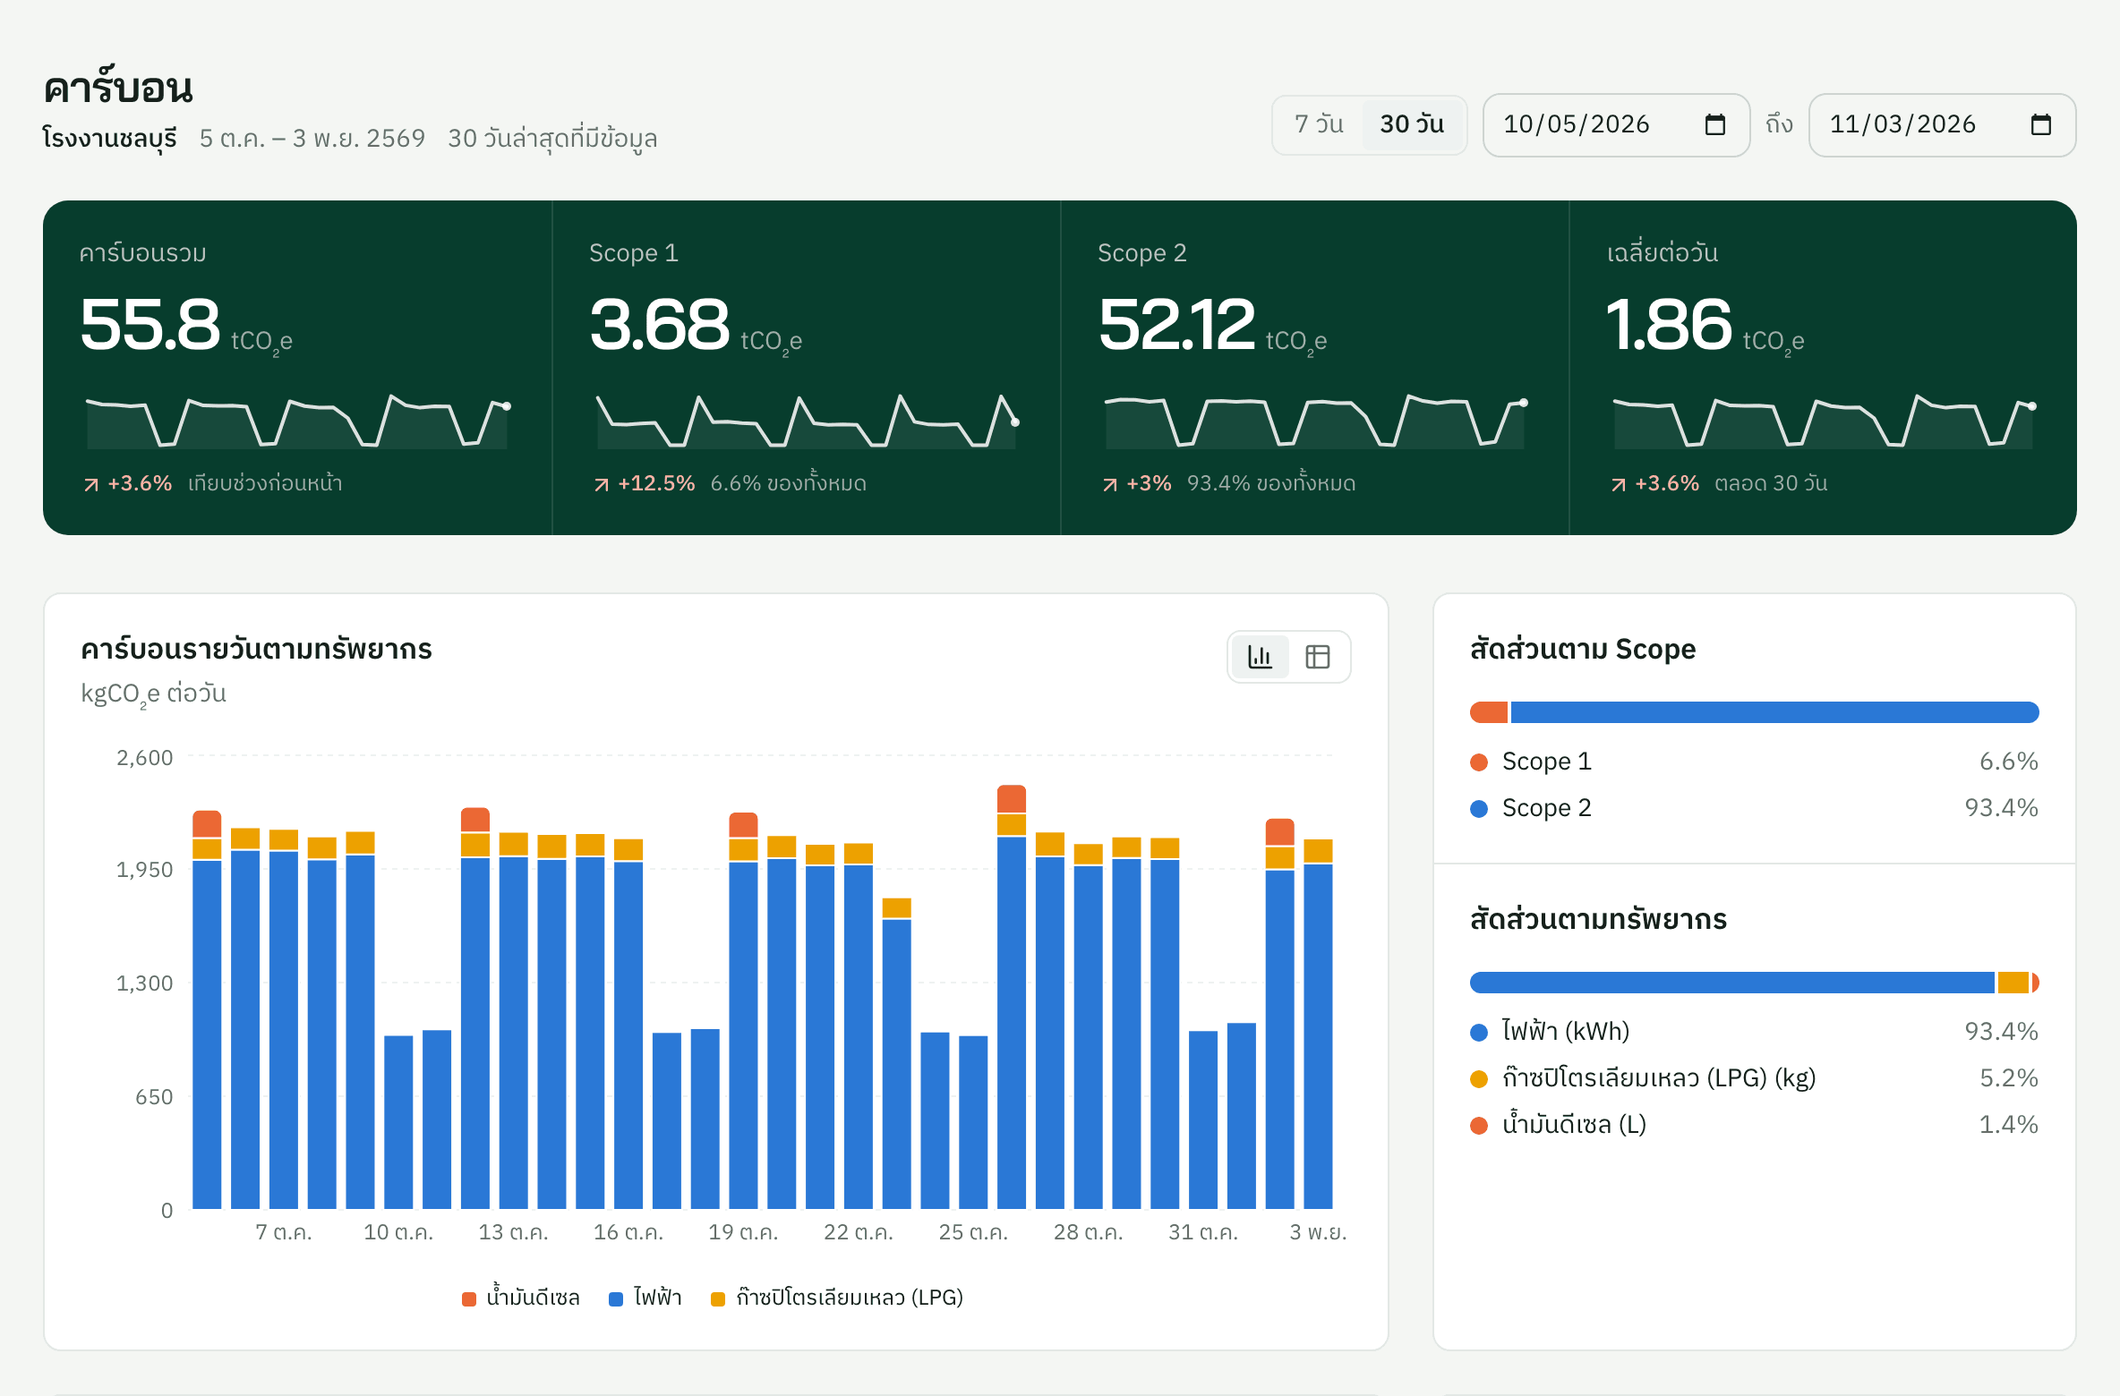
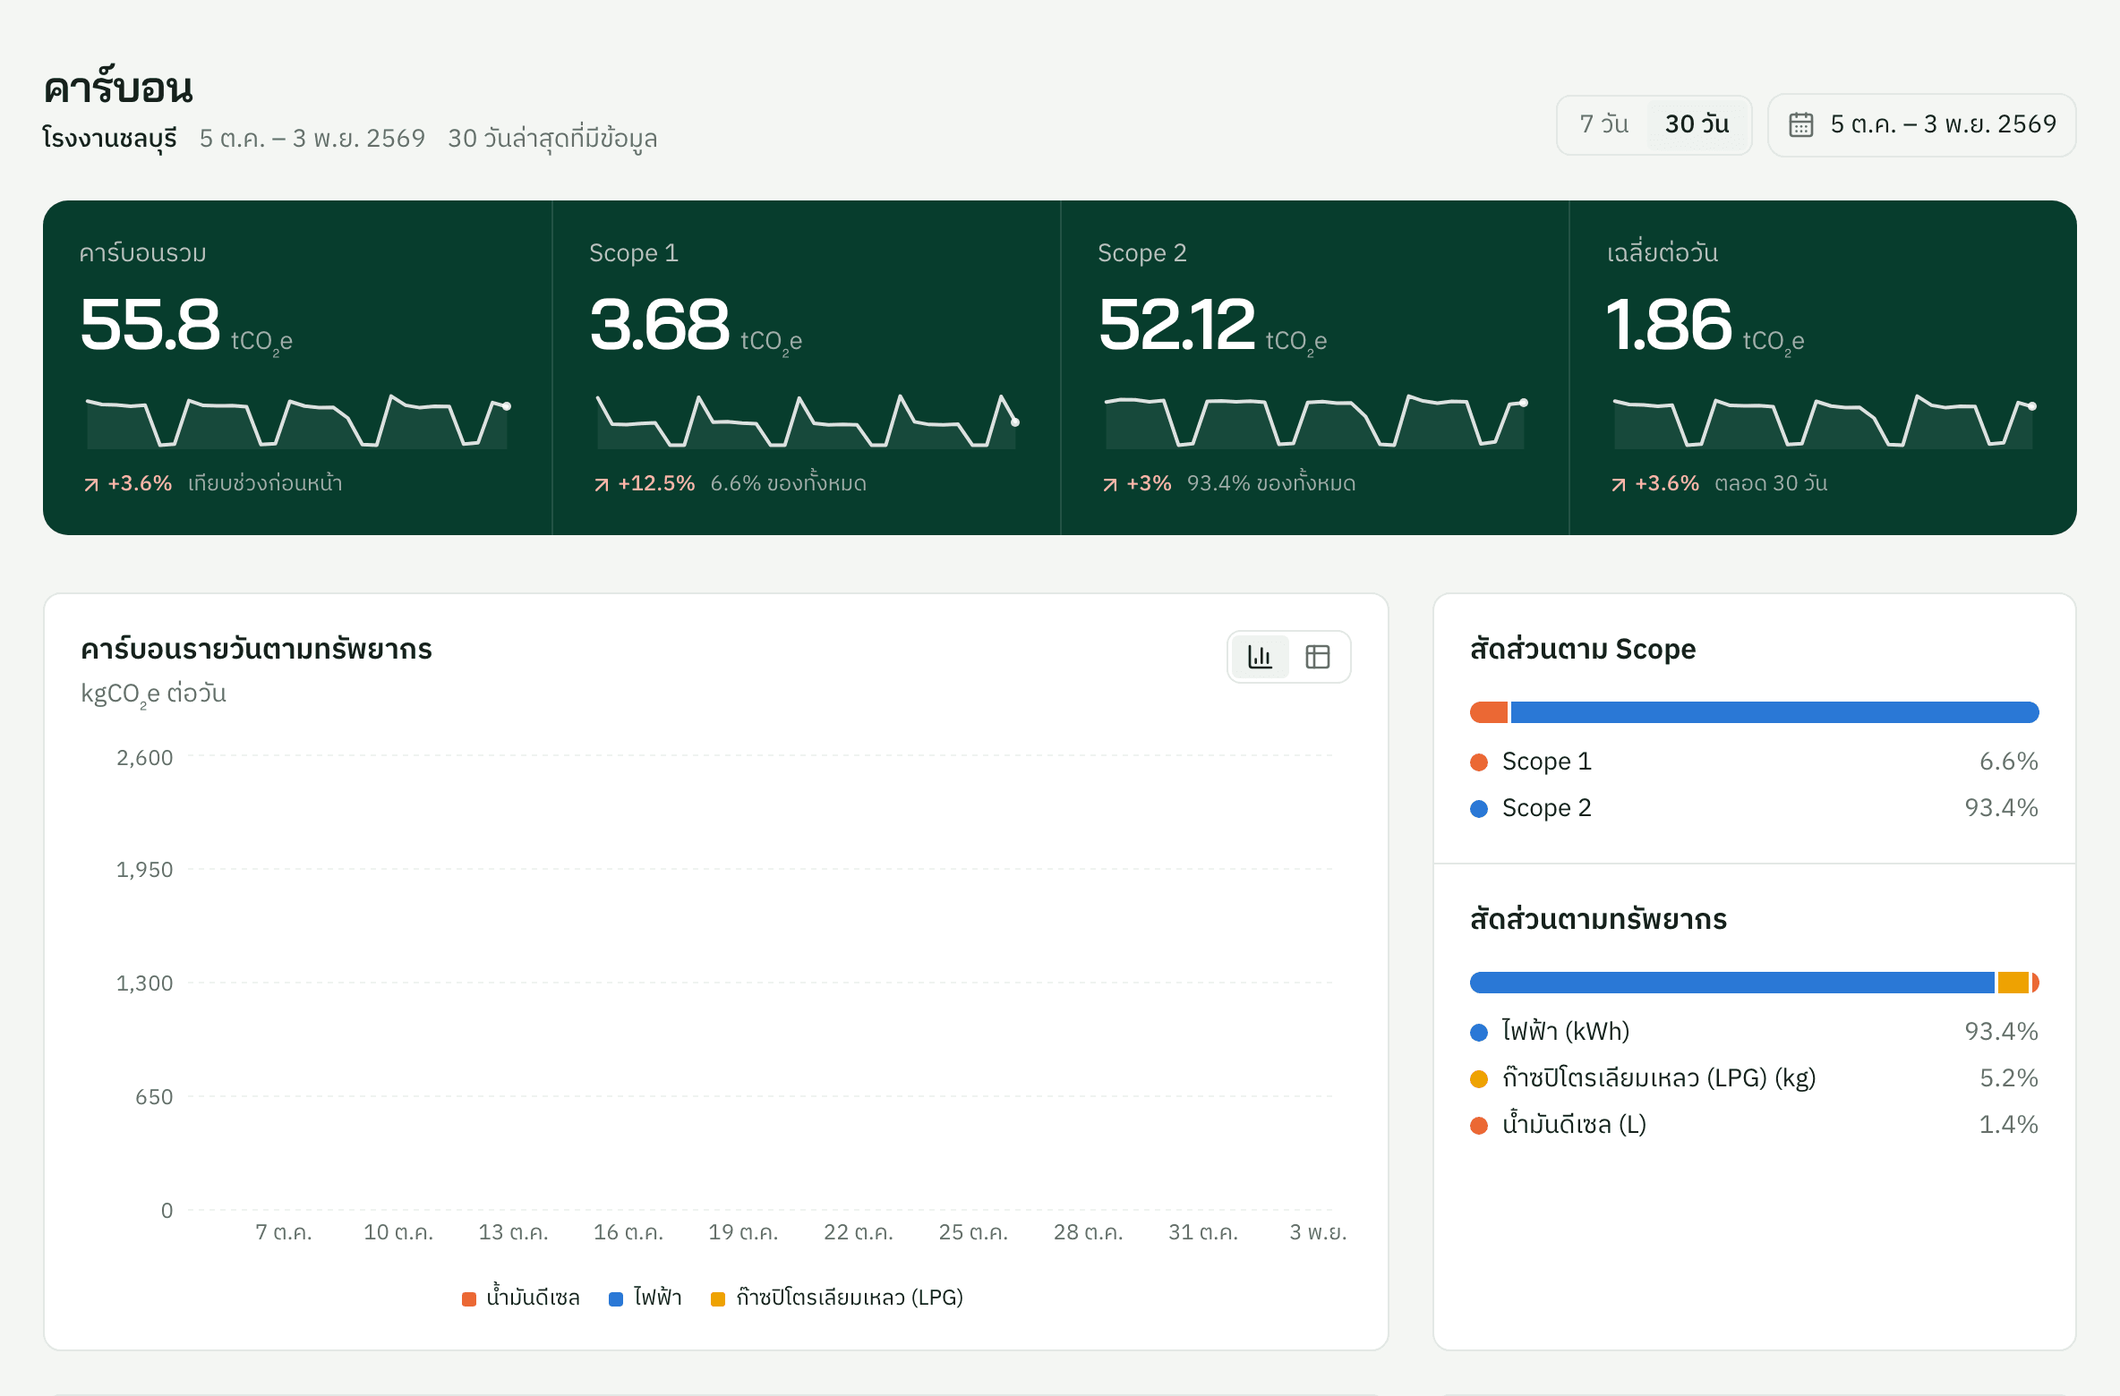
Thai date picker, tidy carbon table and landing heatmap
Native date inputs showed US-format Gregorian dates while the rest of the
app uses Thai Buddhist-era dates. A shared DateField/DateRangeField (Popover
+ Calendar, th locale) replaces them on dashboards, filters and reports.
Also: carbon method table fits its panel, top emitters use the primary
colour, the landing heatmap no longer bleeds off-screen, the curl sample
wraps, form fields align next to Radix selects, and product shots are
recaptured.

diff --git a/src/components/ui/date-field.tsx b/src/components/ui/date-field.tsx
@@ -1,0 +1,81 @@
+"use client";
+
+import { useState } from "react";
+import { CalendarDays } from "lucide-react";
+import { th } from "react-day-picker/locale";
+import type { DateRange } from "react-day-picker";
+import { Button } from "@/components/ui/button";
+import { Calendar } from "@/components/ui/calendar";
+import { Popover, PopoverContent, PopoverTrigger } from "@/components/ui/popover";
+import { cn } from "@/lib/utils";
+
+// Values stay "YYYY-MM-DD" strings (Bangkok business days); the calendar works on local midnight dates.
+const toDate = (day: string) => new Date(`${day}T00:00:00`);
+const toDay = (d: Date) =>
+  `${d.getFullYear()}-${String(d.getMonth() + 1).padStart(2, "0")}-${String(d.getDate()).padStart(2, "0")}`;
+const label = (day: string, year = true) =>
+  toDate(day).toLocaleDateString("th-TH", { day: "numeric", month: "short", ...(year && { year: "numeric" }) });
+
+// Thai month names with Buddhist-era years, matching every other date in the app.
+const formatters = {
+  formatCaption: (d: Date) => d.toLocaleDateString("th-TH", { month: "long", year: "numeric" }),
+};
+
+const disabledOutside = (min?: string, max?: string) => [
+  ...(min ? [{ before: toDate(min) }] : []),
+  ...(max ? [{ after: toDate(max) }] : []),
+];
+
+export function DateField({ id, value, onChange, min, max, className, "aria-label": ariaLabel }: {
+  id?: string; value: string; onChange: (day: string) => void; min?: string; max?: string; className?: string; "aria-label"?: string;
+}) {
+  const [open, setOpen] = useState(false);
+  return (
+    <Popover open={open} onOpenChange={setOpen}>
+      <PopoverTrigger asChild>
+        <Button id={id} type="button" variant="outline" aria-label={ariaLabel} className={cn("h-9 justify-start gap-2 border-input bg-transparent font-normal tabular-nums", !value && "text-muted-foreground", className)}>
+          <CalendarDays className="text-muted-foreground" aria-hidden />
+          {value ? label(value) : "เลือกวันที่"}
+        </Button>
+      </PopoverTrigger>
+      <PopoverContent className="w-auto p-0" align="start">
+        <Calendar mode="single" locale={th} formatters={formatters} selected={value ? toDate(value) : undefined}
+          defaultMonth={value ? toDate(value) : undefined} disabled={disabledOutside(min, max)}
+          onSelect={(d) => { if (d) { onChange(toDay(d)); setOpen(false); } }} />
+      </PopoverContent>
+    </Popover>
+  );
+}
+
+/** One button for a from–to range; commits only when both ends are picked. */
+export function DateRangeField({ from, to, onChange, max, className }: {
+  from: string; to: string; onChange: (from: string, to: string) => void; max?: string; className?: string;
+}) {
+  const [open, setOpen] = useState(false);
+  const [draft, setDraft] = useState<DateRange | undefined>();
+  const sameYear = from.slice(0, 4) === to.slice(0, 4);
+  return (
+    <Popover open={open} onOpenChange={(o) => { setOpen(o); setDraft(undefined); }}>
+      <PopoverTrigger asChild>
+        <Button type="button" variant="outline" aria-label="เลือกช่วงวันที่" className={cn("h-9 justify-start gap-2 font-normal tabular-nums", className)}>
+          <CalendarDays className="text-muted-foreground" aria-hidden />
+          {label(from, !sameYear)} – {label(to)}
+        </Button>
+      </PopoverTrigger>
+      <PopoverContent className="w-auto p-0" align="end">
+        <Calendar mode="range" locale={th} formatters={formatters} numberOfMonths={2}
+          defaultMonth={toDate(from)} selected={draft ?? { from: toDate(from), to: toDate(to) }}
+          disabled={disabledOutside(undefined, max)}
+          onSelect={(r, picked) => {
+            // Start a fresh range on the first click instead of extending the current one.
+            const next = draft ? r : { from: picked, to: undefined };
+            if (next?.from && next.to) { onChange(toDay(next.from), toDay(next.to)); setOpen(false); setDraft(undefined); }
+            else setDraft(next);
+          }} />
+        <p className="border-t px-3 py-2 text-xs text-muted-foreground">
+          {draft?.from ? `เริ่ม ${label(toDay(draft.from))} เลือกวันสิ้นสุด` : "เลือกวันเริ่มต้น แล้วเลือกวันสิ้นสุด"}
+        </p>
+      </PopoverContent>
+    </Popover>
+  );
+}

diff --git a/src/app/manager/carbon/page.tsx b/src/app/manager/carbon/page.tsx
@@ -78,7 +78,7 @@ export default async function Page({ searchParams }: PageProps<"/manager/carbon"
               <TableHeader>
                 <TableRow>
                   <TableHead>ทรัพยากร</TableHead><TableHead className="text-right">ปริมาณที่ใช้</TableHead><TableHead className="text-right">Factor</TableHead>
-                  <TableHead className="text-right">คาร์บอน</TableHead><TableHead>Scope</TableHead><TableHead>แหล่งที่มาของ Factor</TableHead>
+                  <TableHead className="text-right">คาร์บอน</TableHead><TableHead>แหล่งที่มาของ Factor</TableHead>
                 </TableRow>
               </TableHeader>
               <TableBody>
@@ -89,9 +89,8 @@ export default async function Page({ searchParams }: PageProps<"/manager/carbon"
                       <TableCell><span className="flex items-center gap-2 whitespace-nowrap"><Icon className="size-4" style={{ color: resourceColor(r.resourceCode) }} aria-hidden />{r.resourceName}</span><span className="text-xs text-muted-foreground">{fmtNum(r.count)} รายการ</span></TableCell>
                       <TableCell className="text-right whitespace-nowrap tabular">{fmtNum(r.activity)} <span className="text-muted-foreground">{r.unit}</span></TableCell>
                       <TableCell className="text-right whitespace-nowrap tabular">{r.factor === null ? "หลายค่า" : fmtNum(r.factor, 4)}<p className="text-xs text-muted-foreground">{r.factorUnit}</p></TableCell>
-                      <TableCell className="text-right whitespace-nowrap font-medium tabular">{c(r.kg)}</TableCell>
-                      <TableCell className="whitespace-nowrap">{r.scope}</TableCell>
-                      <TableCell className="min-w-48 text-sm whitespace-normal text-muted-foreground">{r.source}</TableCell>
+                      <TableCell className="text-right whitespace-nowrap tabular"><span className="font-medium">{c(r.kg)}</span><p className="text-xs text-muted-foreground">{r.scope}</p></TableCell>
+                      <TableCell className="min-w-44 text-xs leading-relaxed whitespace-normal text-muted-foreground">{r.source}</TableCell>
                     </TableRow>
                   );
                 })}
@@ -100,7 +99,7 @@ export default async function Page({ searchParams }: PageProps<"/manager/carbon"
           </div>
         </Panel>
         <Panel title="จุดปล่อยสูงสุด" description="ตามเครื่องจักรและจุดตรวจ">
-          <BarList items={d.hotspots.slice(0, 6).map((h) => ({ label: h.name, value: h.kg, color: "var(--chart-6)" }))} unit="kgCO₂e" />
+          <BarList items={d.hotspots.slice(0, 6).map((h) => ({ label: h.name, value: h.kg, color: "var(--primary)" }))} unit="kgCO₂e" />
         </Panel>
       </div>
 

diff --git a/src/app/(public)/page.tsx b/src/app/(public)/page.tsx
@@ -109,14 +109,14 @@ export default function HomePage() {
       </Section>
 
       <section aria-labelledby="heatmap-title" className="overflow-hidden border-y bg-card py-16 sm:py-24">
-        <div className="mx-auto grid max-w-6xl gap-10 px-4 sm:px-6 lg:grid-cols-[340px_1fr] lg:items-center lg:gap-14">
-          <div>
+        <div className="mx-auto max-w-6xl px-4 sm:px-6">
+          <div className="grid gap-6 lg:grid-cols-[minmax(0,560px)_auto] lg:items-end lg:justify-between lg:gap-14">
             <SectionHeading id="heatmap-title" title="เห็นทุกเครื่อง ทุกวัน" body="แต่ละแถวคือเครื่องจักร แต่ละช่องคือหนึ่งวัน สีเข้มคือใช้ไฟมาก วันที่เครื่องหยุดหรือมิเตอร์ไม่ได้บันทึกเห็นได้ทันที โดยไม่ต้องไล่อ่านตาราง" />
-            <Points className="mt-6" items={["เรียงจากเครื่องที่ใช้มากที่สุด", "กดที่วันเพื่อดูค่าที่บันทึกจริงของวันนั้น", "ช่องลายเฉียงคือวันที่ไม่มีข้อมูล"]} />
+            <Points items={["เรียงจากเครื่องที่ใช้มากที่สุด", "กดที่วันเพื่อดูค่าที่บันทึกจริงของวันนั้น", "ช่องลายเฉียงคือวันที่ไม่มีข้อมูล"]} />
           </div>
           {/* On phones the matrix would be unreadable at screen width, so it scrolls sideways instead. */}
-          <div className="-mx-4 overflow-x-auto px-4 sm:mx-0 sm:px-0 lg:-mr-48 lg:overflow-visible" tabIndex={0} aria-label="ภาพตารางสีการใช้ไฟฟ้า เลื่อนดูด้านข้างได้">
-            <Shot name="heatmap" sizes="(min-width: 1024px) 1000px, (min-width: 640px) 100vw, 760px" className="w-[760px] sm:w-auto" />
+          <div className="-mx-4 mt-10 overflow-x-auto px-4 sm:mx-0 sm:px-0" tabIndex={0} aria-label="ภาพตารางสีการใช้ไฟฟ้า เลื่อนดูด้านข้างได้">
+            <Shot name="heatmap" sizes="(min-width: 1152px) 1104px, (min-width: 640px) 100vw, 760px" className="w-[760px] sm:w-auto" />
           </div>
         </div>
       </section>

diff --git a/src/app/manager/reports/_components/create-report.tsx b/src/app/manager/reports/_components/create-report.tsx
@@ -3,7 +3,7 @@
 import { useState } from "react";
 import { FileDown, Loader2 } from "lucide-react";
 import { Button } from "@/components/ui/button";
-import { Input } from "@/components/ui/input";
+import { DateField } from "@/components/ui/date-field";
 import { Select, SelectContent, SelectItem, SelectTrigger, SelectValue } from "@/components/ui/select";
 import { Field } from "@/components/account/field";
 import { useAction } from "@/hooks/use-action";
@@ -36,21 +36,21 @@ export function CreateReport({ defaultFrom, defaultTo }: { defaultFrom: string; 
     >
       <Field id="type" label="ประเภทรายงาน">
         <Select value={type} onValueChange={(v) => setType(v as typeof type)}>
-          <SelectTrigger id="type" className="h-10 w-full"><SelectValue /></SelectTrigger>
+          <SelectTrigger id="type" className="w-full data-[size=default]:h-10"><SelectValue /></SelectTrigger>
           <SelectContent>{TYPES.map((t) => <SelectItem key={t.value} value={t.value}>{t.label}</SelectItem>)}</SelectContent>
         </Select>
       </Field>
       <Field id="format" label="รูปแบบไฟล์">
         <Select value={format} onValueChange={(v) => setFormat(v as typeof format)}>
-          <SelectTrigger id="format" className="h-10 w-full"><SelectValue /></SelectTrigger>
+          <SelectTrigger id="format" className="w-full data-[size=default]:h-10"><SelectValue /></SelectTrigger>
           <SelectContent>{FORMATS.map((t) => <SelectItem key={t.value} value={t.value}>{t.label}</SelectItem>)}</SelectContent>
         </Select>
       </Field>
       <Field id="from" label="ตั้งแต่วันที่" error={errors.from}>
-        <Input id="from" type="date" className="h-10" value={from} max={to} onChange={(e) => setFrom(e.target.value)} required />
+        <DateField id="from" className="h-10 w-full" value={from} max={to} onChange={setFrom} />
       </Field>
       <Field id="to" label="ถึงวันที่" error={errors.to}>
-        <Input id="to" type="date" className="h-10" value={to} min={from} onChange={(e) => setTo(e.target.value)} required />
+        <DateField id="to" className="h-10 w-full" value={to} min={from} onChange={setTo} />
       </Field>
       <Button type="submit" className="h-10" disabled={pending}>{pending ? <Loader2 className="animate-spin" /> : <FileDown />} สร้างรายงาน</Button>
     </form>

diff --git a/src/components/manager/range-picker.tsx b/src/components/manager/range-picker.tsx
@@ -3,7 +3,7 @@
 import { usePathname, useRouter, useSearchParams } from "next/navigation";
 import { useTransition } from "react";
 import { Loader2 } from "lucide-react";
-import { Input } from "@/components/ui/input";
+import { DateRangeField } from "@/components/ui/date-field";
 import { cn } from "@/lib/utils";
 
 const addDays = (day: string, n: number) => {
@@ -36,9 +36,7 @@ export function RangePicker({ from, to, presets = [7, 30, 90] }: { from: string;
           </button>
         ))}
       </div>
-      <Input type="date" aria-label="ตั้งแต่วันที่" className="h-9 w-[150px]" value={from} max={to} onChange={(e) => e.target.value && go(e.target.value, to)} />
-      <span className="text-sm text-muted-foreground">ถึง</span>
-      <Input type="date" aria-label="ถึงวันที่" className="h-9 w-[150px]" value={to} min={from} onChange={(e) => e.target.value && go(from, e.target.value)} />
+      <DateRangeField from={from} to={to} onChange={go} />
       {pending && <Loader2 className="size-4 animate-spin text-muted-foreground" aria-label="กำลังโหลด" />}
     </div>
   );

diff --git a/src/components/data/url-filters.tsx b/src/components/data/url-filters.tsx
@@ -5,6 +5,7 @@ import { useEffect, useState, useTransition } from "react";
 import { Loader2, Search, X } from "lucide-react";
 import { Button } from "@/components/ui/button";
 import { Input } from "@/components/ui/input";
+import { DateField } from "@/components/ui/date-field";
 import { Select, SelectContent, SelectItem, SelectTrigger, SelectValue } from "@/components/ui/select";
 
 export type FilterField =
@@ -62,7 +63,7 @@ export function UrlFilters({ fields }: { fields: FilterField[] }) {
         ) : (
           <label key={f.name} className="flex flex-col gap-1 text-xs text-muted-foreground">
             {f.label}
-            <Input type="date" className="h-9 w-[150px]" value={sp.get(f.name) ?? ""} onChange={(e) => set(f.name, e.target.value || null)} />
+            <DateField className="w-[150px]" aria-label={f.label} value={sp.get(f.name) ?? ""} onChange={(d) => set(f.name, d)} />
           </label>
         ),
       )}

diff --git a/src/components/marketing/bits.tsx b/src/components/marketing/bits.tsx
@@ -34,7 +34,8 @@ export function Points({ items, className }: { items: readonly string[]; classNa
 }
 
 /** Same request the company sensors page shows after issuing a token (token and host are placeholders). */
-export const INGEST_CURL = `curl -X POST https://<โดเมนของคุณ>/api/ingest/readings \\
+export const INGEST_CURL = `curl -X POST \\
+  https://<โดเมนของคุณ>/api/ingest/readings \\
   -H "Authorization: Bearer <token ของเซนเซอร์>" \\
   -H "Content-Type: application/json" \\
   -d '{"value": 42.1, "unit": "KW"}'`;

diff --git a/src/components/account/field.tsx b/src/components/account/field.tsx
@@ -11,7 +11,7 @@ export function Field({ id, label, error, hint, children, required }: {
   children: ReactNode;
 }) {
   return (
-    <div className="space-y-1.5">
+    <div className="flex flex-col gap-1.5">
       <Label htmlFor={id}>
         {label}
         {required && <span className="text-status-critical" aria-hidden> *</span>}
